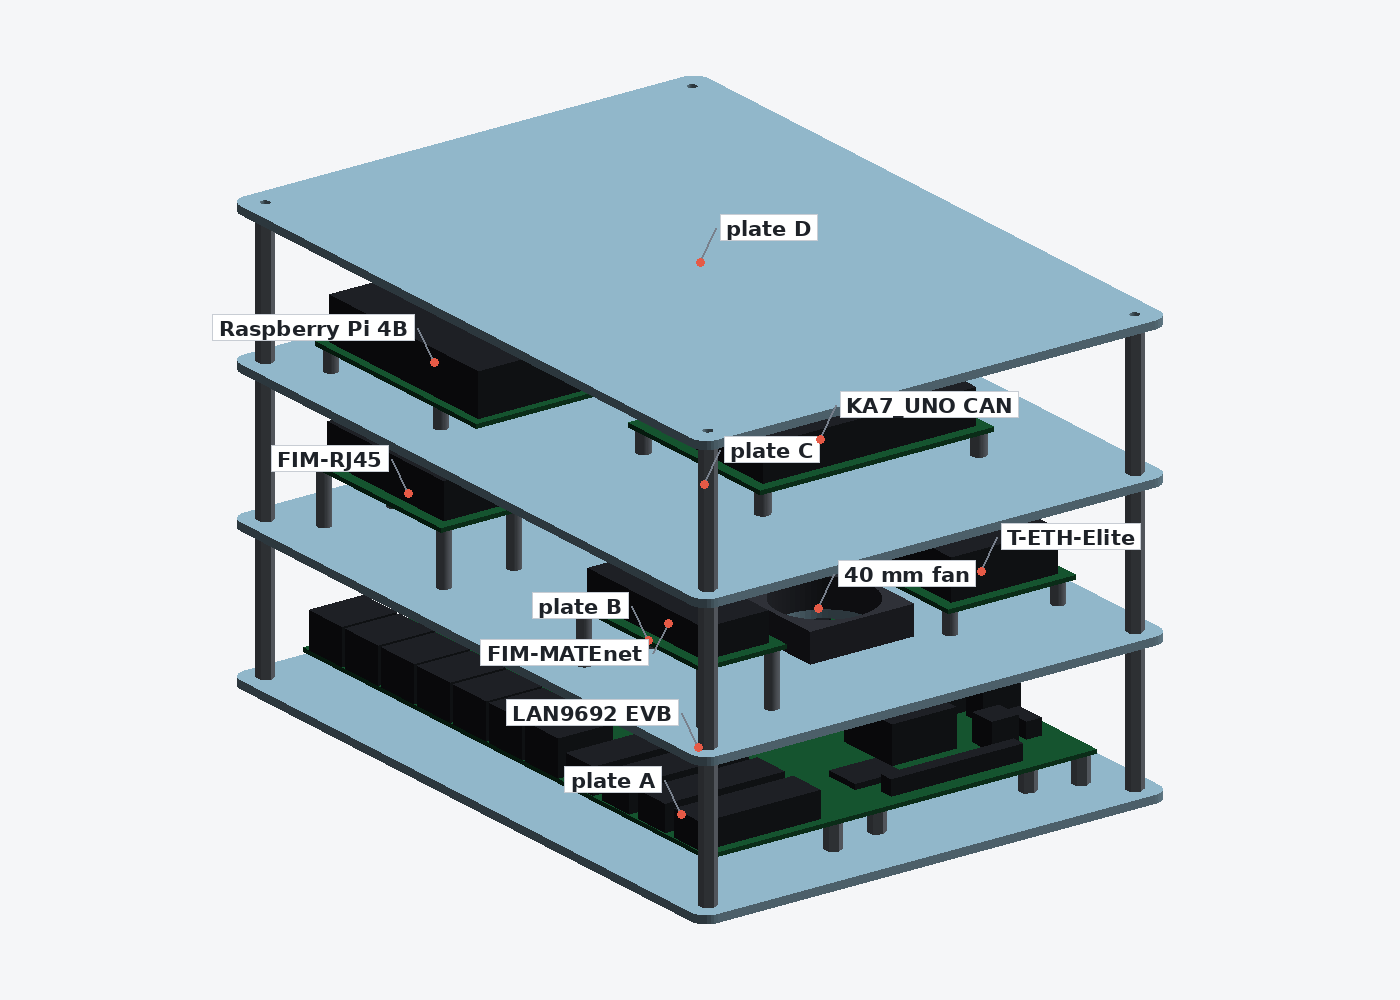
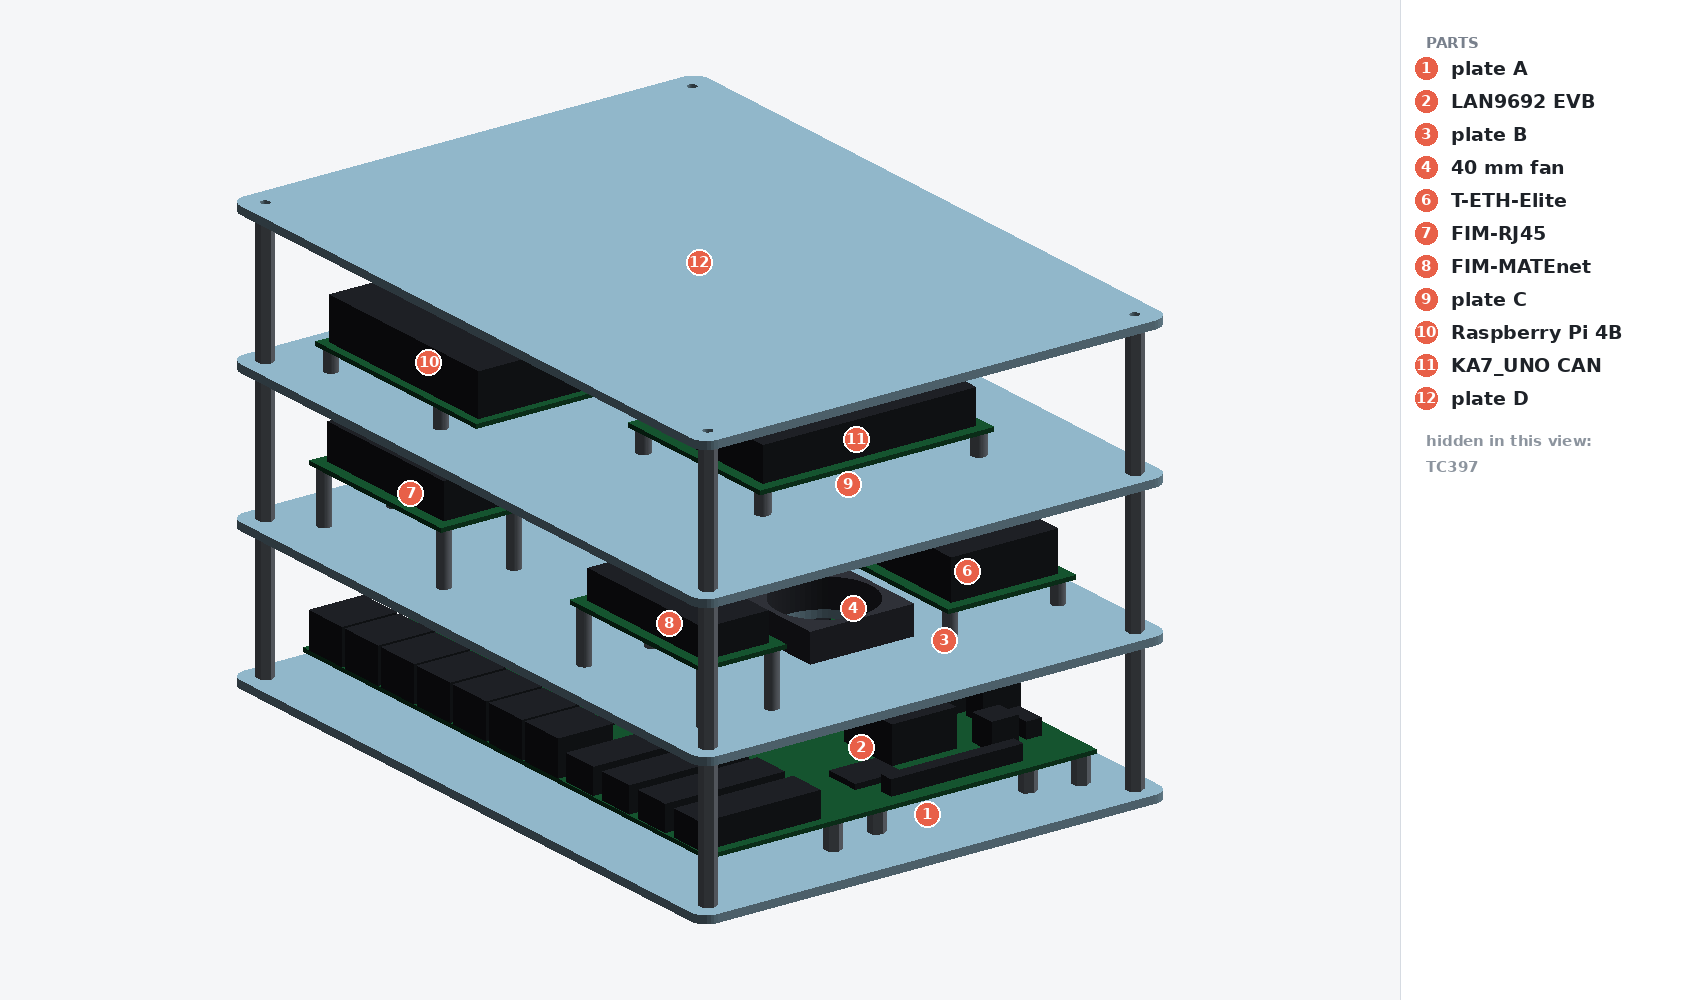
Number the parts and put a key beside the picture
Third shape for this, and the right one. Names in edge columns had twelve leader
lines crossing each other, so reading a name meant tracing a line across the
image. Names beside their own dots read locally but sat on top of the geometry
they pointed at - the thing the picture exists to show. Numbered callouts with a
key off to the side is what an assembly drawing does: nothing crosses, nothing
covers the model, and adding a part does not make it worse.

Numbers run in build() order, which is bottom of the stack upward, so the key
reads as an assembly sequence: plate A, LAN9692, plate B, fan, the four boards on
it, plate C, the Pi, the CAN board, plate D.

A part hidden behind another still gets no callout, and now says so - the key
lists what is hidden in that view rather than silently dropping it. On the
assembled render that is the TC397 under plate C; the exploded render shows all
twelve.

One thing kept from the previous attempt: the anchor is the densest row of a
part's own visible pixels rather than the plain centroid, because for an L-shaped
sliver the centroid can land in the gap between two visible strips.

diff --git a/acrylic-frame/render_all.py b/acrylic-frame/render_all.py
@@ -192,11 +192,16 @@ def project(mesh, elev, azim, pts):
 
 
 def labelled(elev, azim, out, explode=False):
-    """Render, then hang a name off each part's own visible pixels.
+    """Render, then number the parts and put a key beside the picture.
 
-    The names come from build() itself - assembly.NAMES, one per part - so
-    nothing here reconstructs build()'s ordering, which is the mistake that put
-    "plate B" over plate C's surface.
+    Third attempt at this, and the first one whose shape is right. Names in edge
+    columns meant twelve leader lines crossing each other. Names next to their
+    own dots read locally but sat on top of the geometry they were pointing at -
+    the thing you opened the picture to look at. Numbered callouts with a key off
+    to the side is what an assembly drawing does: nothing crosses, nothing covers
+    the model, and it does not get worse as parts are added.
+
+    Numbers run in build() order, which is bottom of the stack upward.
     """
     parts, cols = A.build()
     names = list(A.NAMES)
@@ -211,58 +216,60 @@ def labelled(elev, azim, out, explode=False):
     gid = np.concatenate([np.full(len(p.faces),
                                   order.index(n) if n in order else -1, np.int32)
                           for p, n in zip(parts, names)])
-    groups = [(n, None) for n in order]
     mesh, fc = scene(parts, cols)
     im = render(mesh, elev, azim, face_colors=fc).convert('RGB')
     ids = visible_ids(mesh, gid, elev, azim)
 
-    d = ImageDraw.Draw(im)
+    KEY = 300
+    sheet = Image.new('RGB', (W + KEY, H), (255, 255, 255))
+    sheet.paste(im, (0, 0))
+    d = ImageDraw.Draw(sheet)
     try:
-        f = ImageFont.truetype(FONT, 21)
+        f = ImageFont.truetype(FONT, 19)
+        fnum = ImageFont.truetype(FONT, 15)
     except OSError:
-        f = ImageFont.load_default()
+        f = fnum = ImageFont.load_default()
 
-    anchors = []
-    for g, (name, _) in enumerate(groups):
-        ys, xs = np.nonzero(ids == g)
-        if len(xs) < 60:                      # hidden, or a sliver - no label
+    R = 13
+    shown = []
+    for i, name in enumerate(order, 1):
+        ys, xs = np.nonzero(ids == i - 1)
+        if len(xs) < 60:                    # hidden behind something: no callout
             continue
-        anchors.append([name, float(np.median(xs)), float(np.median(ys)), len(xs)])
+        # the visible centroid can fall in a gap for an L-shaped sliver, so take
+        # the densest row of that part's pixels and sit on it
+        row = int(np.median(ys))
+        near = xs[np.abs(ys - row) < 6]
+        cx, cy = float(np.median(near)), float(row)
+        shown.append((i, name, cx, cy))
 
-    # Put each name NEXT TO its own dot with a short leader, not out in an edge
-    # column. Edge columns were technically correct and unreadable: with twelve
-    # labels on a spread-out object the leaders crossed each other, so telling
-    # which name belonged to which dot took tracing a line across the picture.
-    boxes = []
-    for r in sorted(anchors, key=lambda r: -r[3]):      # biggest part placed first
-        name, ax, ay = r[0], r[1], r[2]
-        tw = d.textlength(name, font=f)
-        out_left = ax < W / 2
-        best = None
-        for ddx, ddy in ((0, -34), (0, 30), (0, -58), (0, 54), (0, -82), (0, 78),
-                         (0, -106), (0, 102)):
-            lx = ax - tw - 26 if out_left else ax + 26
-            ly = ay + ddy
-            if lx < 4 or lx + tw + 12 > W - 4 or ly < 16 or ly > H - 16:
-                continue
-            box = (lx - 6, ly - 14, lx + tw + 6, ly + 12)
-            if any(box[0] < o[2] and box[2] > o[0]
-                   and box[1] < o[3] and box[3] > o[1] for o in boxes):
-                continue
-            best = (lx, ly, box)
-            break
-        if best is None:
-            continue
-        lx, ly, box = best
-        boxes.append(box)
-        d.line([(ax, ay), (lx + (tw + 10 if out_left else -10), ly)],
-               fill=(120, 128, 140), width=2)
-        d.ellipse([ax - 4, ay - 4, ax + 4, ay + 4], fill=(230, 90, 70))
-        d.rectangle(box, fill=(255, 255, 255), outline=(200, 205, 212))
-        d.text((lx, ly - 12), name, font=f, fill=(30, 34, 40))
-    im.save(out)
-    print(f"  {os.path.relpath(out, HERE)}  ({len(anchors)} of {len(groups)} "
-          f"parts visible enough to label)")
+    for i, name, cx, cy in shown:
+        d.ellipse([cx - R, cy - R, cx + R, cy + R],
+                  fill=(232, 96, 72), outline=(255, 255, 255), width=2)
+        d.text((cx, cy), str(i), font=fnum, fill=(255, 255, 255), anchor='mm')
+
+    d.line([(W, 0), (W, H)], fill=(214, 219, 226), width=1)
+    y = 34
+    d.text((W + 26, y), 'PARTS', font=fnum, fill=(120, 128, 140))
+    y += 34
+    for i, name, _, _ in shown:
+        d.ellipse([W + 26 - R, y - R, W + 26 + R, y + R],
+                  fill=(232, 96, 72), outline=(255, 255, 255), width=2)
+        d.text((W + 26, y), str(i), font=fnum, fill=(255, 255, 255), anchor='mm')
+        d.text((W + 26 + R + 12, y), name, font=f, fill=(30, 34, 40), anchor='lm')
+        y += 33
+    missing = [n for j, n in enumerate(order, 1)
+               if j not in [s[0] for s in shown]]
+    if missing:
+        y += 10
+        d.text((W + 26, y), 'hidden in this view:', font=fnum,
+               fill=(140, 148, 158), anchor='lm')
+        for n in missing:
+            y += 26
+            d.text((W + 26, y), n, font=fnum, fill=(140, 148, 158), anchor='lm')
+    sheet.save(out)
+    print(f"  {os.path.relpath(out, HERE)}  ({len(shown)} of {len(order)} parts "
+          f"numbered)")
 
 
 def hole_check():
